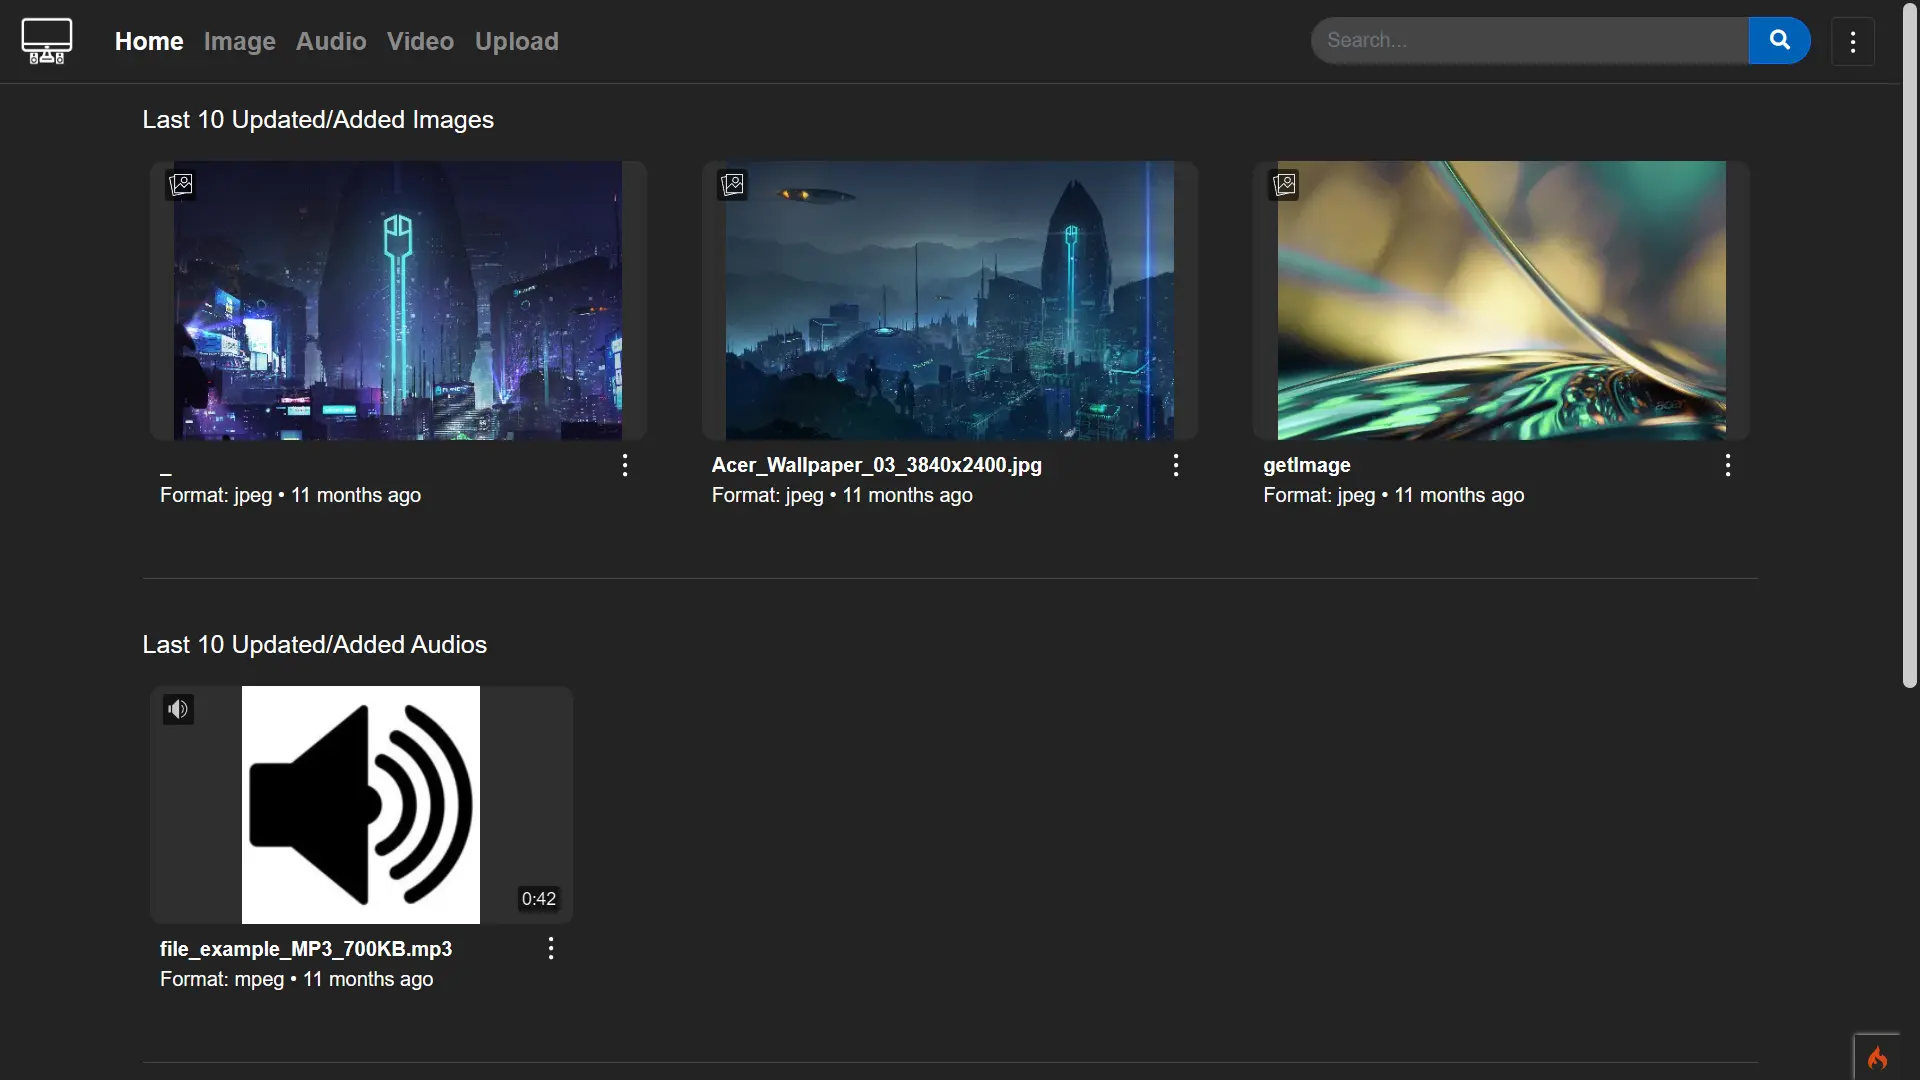
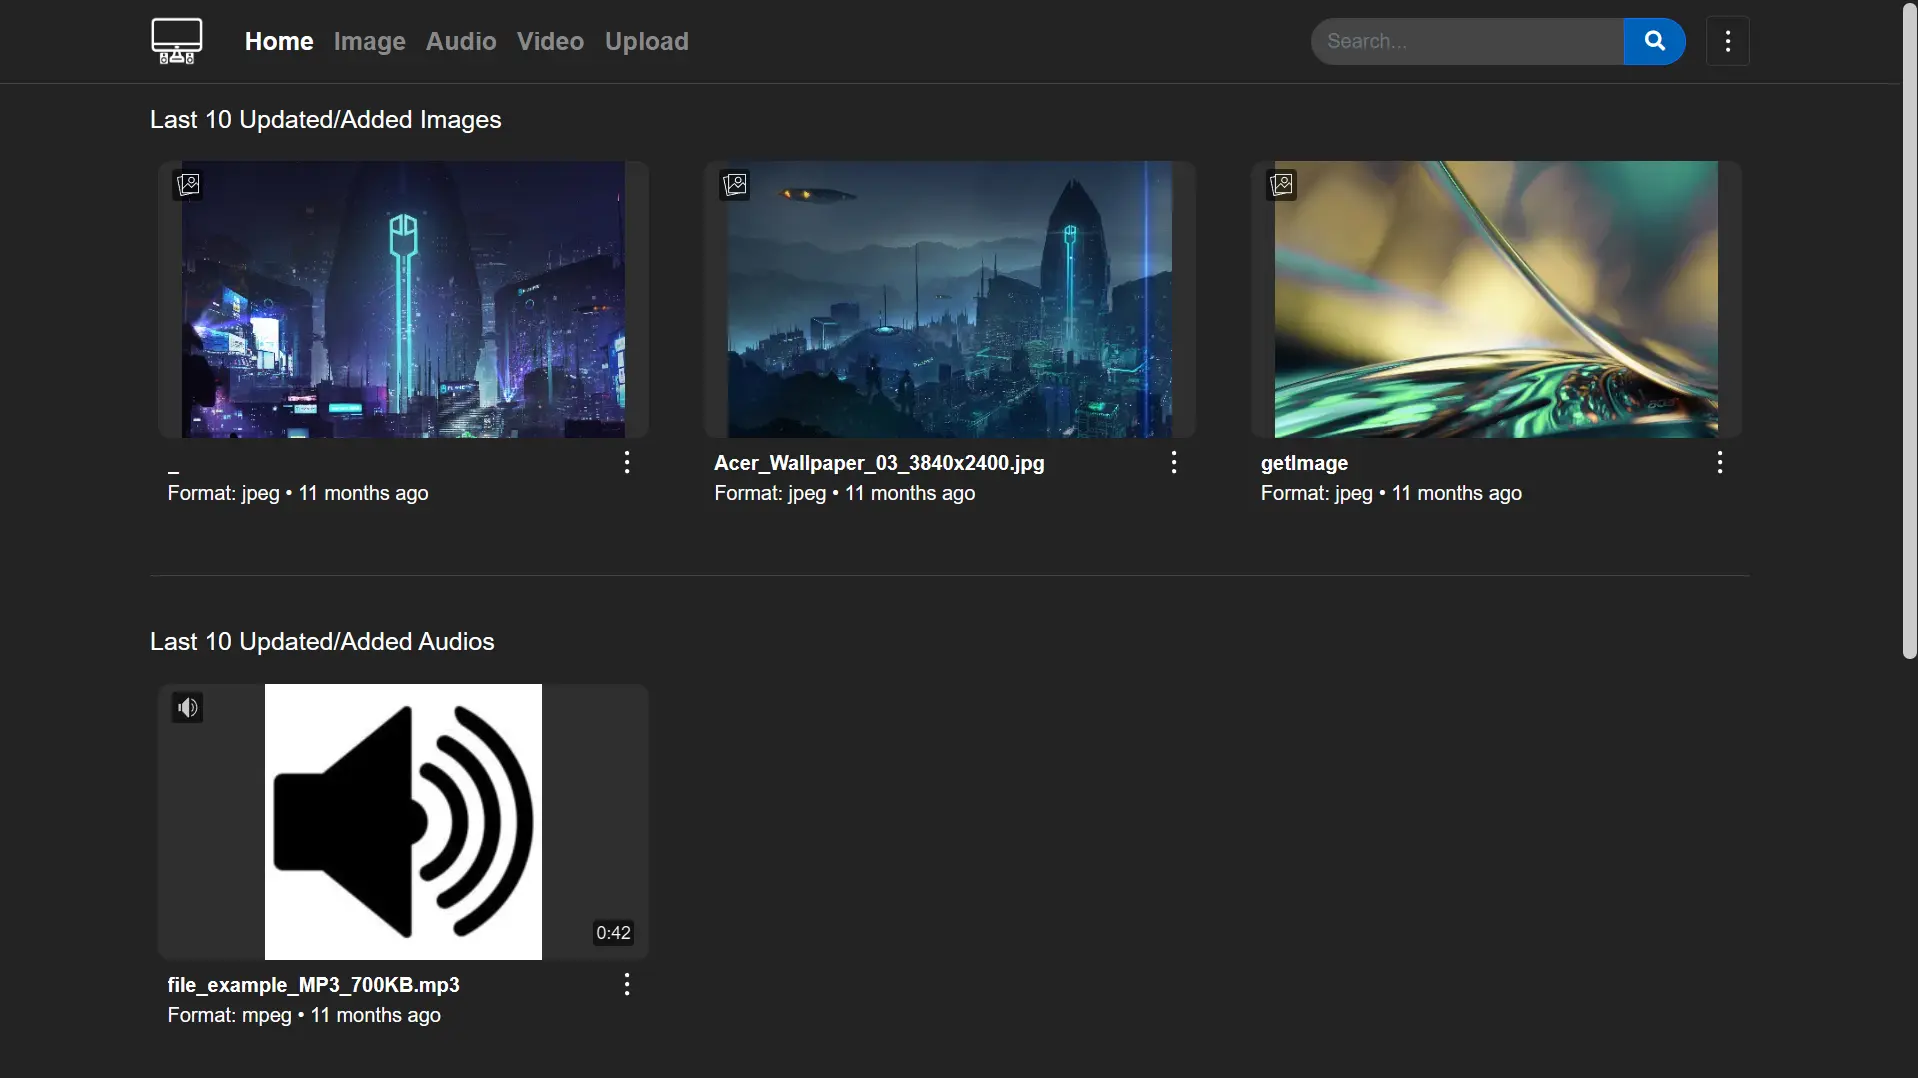
project updates

diff --git a/src/components/Projects/Projects.jsx b/src/components/Projects/Projects.jsx
@@ -1,171 +1,3 @@
-// import {React} from 'react';
-// import '../index.css';
-// import '../css/projects.css';
-// import Project from './Project';
-
-
-// function Projects() {
-
-//   const images = {
-//     'SnakeMenu':'images/SnakeGameMenu.png', 
-//     'SnakeGameplay':'images/SnakeGameplay.png', 
-//     'TypingTestTitle':'images/TypingTestTitle.png',
-//     'TypingTestResults':'images/TypingTestResults.png', 
-//     'MediaProjectHome':'images/mediaProject(home).webp',
-//     'MediaProjectUpload':'images/mediaProject(upload).webp',
-//     'MediaProjectViewImage':'images/mediaProject(viewImage).webp', 
-//     'MediaProjectViewVideo':'images/mediaProject(viewVideo).webp',
-//     'PongGameGameplay':'images/PongGame(Gameplay).webp',
-//     'PongGameSettings':'images/PongGame(Settings).webp', 
-//     'OverwrappedMenu':'images/OverwrappedMenu.webp',
-//     'OverwrappedGame':'images/OverwrappedGame.webp'
-//   }
-
-//   return (
-//     <div className="card section" id="projects">
-//       <div id="projects-content">
-//       <Project 
-//         title="Media Management System" 
-//         description="This project was originally a group project for
-//             my software engineering course but I completely refactored the project, added new features, and deployed it. 
-//             This project allows you to upload image, video, and audio files to the web for storage. This website 
-//             also allows you to view the files you have uploaded."
-//         technologies={['codeigniter', 'php', 'js', 'dropzonejs', 'html', 'css', 'bootstrap']}
-//         features={["You can register an account", "The files uploaded can be viewed in the site.", 
-//         "Allows users to upload image, video, and audio files to the site. These files are only visible the user that uploaded the file.",
-//         "Users can share files to other registered users.", "Users can download any file they uploaded.", 
-//         "There is a search feature allowing users to search for files by name.",
-//         "Users can rename files, add a description, and delete files.", 
-//         "Users can delete and share multiple files by right clicking them and selecting them."  
-//         ]}
-//         howToUse="You need to register an account which will ask for name, email, and password.
-//               Once you logged in, you can click on the upload link in the navbar. Here you can upload
-//               image, video, and audio files."
-//         imagePairs={[
-//                       {imageLeft: {id:"media-project-home", src:images.MediaProjectHome},
-//                       imageRight: {id:"media-project-upload", src:images.MediaProjectUpload}
-//                       },
-//                       {imageLeft: {id:"media-project-viewImage", src:images.MediaProjectViewImage},
-//                       imageRight: {id:"media-project-viewVideo", src:images.MediaProjectViewVideo}
-//                       }
-//                     ]  
-//         }
-//         url="https://xeg28.serv00.net/"
-//         />
-
-//         <Project 
-//           title="Overwrapped"
-//           description="I created this game along with two other group members for my 3D Game Development course. 
-//           This was a semester long project where we had to create a local co-op game in unity. Our game took inspiration
-//           from a game called Overcooked but it is Christmas themed."
-//           technologies={['unity', 'csharp']}
-//           features={["Supports two keyboard players and multiple controller players.",
-//                     "Players can sprint, jump, throw items, drop items, and work on items.", 
-//                     "Has a user interface that provides information about each player.", 
-//                     "In later levels, there's obstacles like falling snowballs and icicles."
-//           ]}
-//           howToUse="When loading the site, the description of the game will show the controls
-//           for keyboard and controller. The goal of the game is to create toys as fast as possible. There is
-//           a time limit for each toy and players need to work together to get them done in time. If three toys 
-//           are not finished in time, the level is failed."
-//           imagePairs={[{imageLeft: {id:"overwrapped-menu", src:images.OverwrappedMenu},
-//                         imageRight: {id:"overwrapped-game", src:images.OverwrappedGame}
-//           }]}   
-//           url="https://xeg28.itch.io/overwrapped"
-//         />
-
-//       <Project 
-//           title="Personal Website"
-//           description="I created this website to provide information about myself such as my interests, education,
-//            experience, and projects. I decided to create this site with the React Framework because I wanted to learn 
-//            how to use a popular frontend framework."
-//           technologies={['react', 'js', 'css']}
-//           features={["Includes a navbar that will scroll to certain sections of the website.", 
-//                       "Includes animations when scrolling to a section.", 
-//                       "Users can click on an images to enlarge.", 
-//                       "The website is responsive so it can be used on mobile."
-//           ]}
-//           howToUse="Users can scroll to sections or use the navbar which will automatically scroll to a section. 
-//           Users can click on project images to enlarge them."
-//           imagePairs={[]}   
-//           url="https://xeg28.github.io/PersonalWebsite"
-//         />
-
-
-//         <Project 
-//           title="Pong Game"
-//           description="I recreated the Pong Game using JavaScript, HTML, and CSS. I decided to 
-//               create this project to help me gain experience with frontend development."
-//           technologies={['html', 'js', 'css']}
-//           features={["Users can play against another player or an AI.",
-//                     "There is an options menu where users can change the speed of the game, the size of the paddle, and the difficulty of the AI.",
-//                     "Users can choose between dark and light theme.",
-//                     "Users can pause the game.",
-//                     "All of your options are saved in your browser."
-//           ]}
-//           howToUse="When you load up the game there is a controls menu showing how to move the paddles. 
-//           When you click to start the game, you have to predict where the ball is going and move the paddle
-//           to block the ball. When the ball hits the paddle, its direction and speed is random to make it hard to predict."
-//           imagePairs={[{imageLeft: {id:"pong-game-gameplay", src:images.PongGameGameplay},
-//                         imageRight: {id:"pong-game-settings", src:images.PongGameSettings}
-//           }]}   
-//           url="https://xeg28.github.io/PongGame"
-//         />
-
-//         <Project 
-//           title="Snake Game"
-//           description="I recreated the Snake game using JavaScript, HTML, and CSS. I decided to 
-//               create this project to help me gain experience with frontend development."
-//           technologies={['html', 'js', 'css']}
-//           features={["The game includes screen wrapping which allows the snake to pass through one edge of the screen and reappear on the opposite edge.",
-//                     "The game can be paused.",
-//                     "The game can be sped up through the menu. The game speeds include slow, fast, and full speed.",
-//                     "Your highest score is kept by your browser."
-//           ]}
-//           howToUse="You will control the snake and the goal is to catch the red square. Everytime you catch a square, 
-//                 your score will go up by one point. If you crash into yourself, the game is over."
-//           imagePairs={[{imageLeft: {id:"snake-menu", src:images.SnakeMenu},
-//                         imageRight: {id:"snake-Gameplay", src:images.SnakeGameplay}
-//             }]}
-//           url="https://xeg28.github.io/Snake-Game"
-//         />
-
-//         <Project 
-//         title="Typing Speed Test"
-//         description="I created a typing speed test using JavaFX and CSS. I created this application
-//             because I liked testing my typing speed and I wanted to gain experience with 
-//             Java and GUI development."
-//         technologies={['java', 'javafx']}
-//         features={["During a test, the user can see their WPM update in a label.",
-//                   "If the user types the text prompt correctly, it is highlighted in green.",
-//                   "If the user makes a mistake, the mistake is highlighted in red.",
-//                   "Users can use custom texts that are not saved locally.",
-//                   "Users can create a quote which are saved locally.",
-//                   "The program allows you to create users which tracks the user's progress.",
-//                   "The program saves the user's average WPM and highest WPM.",
-//                   "The program saves the user's top five tests for every quote.",
-//                   "This program also has a leaderboard for every quote which shows the fastest users for a quote."
-//         ]}
-//         howToUse="Click on the quote text field to focus and begin typing to start a test. You can also
-//               focus textfields and buttons by pressing tab. The program provides shortcuts that allows
-//               you to restart a test or give you a random quote from your list of quotes. These 
-//               shortcuts only work when the quote text field is in focus."
-//         imagePairs={[{imageLeft: {id:"typing-main", src:images.TypingTestTitle},
-//                       imageRight: {id:"typing-results", src:images.TypingTestResults}
-//                     }]}
-//         links={<span className="monospace fs-400">
-//               You will need to install <a className="monospace fs-400" href="https://www.oracle.com/java/technologies/javase" target="_blank">Java 17</a>.
-//               You can check out the project on <a className="monospace fs-400" href="https://github.com/xeg28/Typingtest" target="_blank">GitHub</a>.
-//             </span>}
-//         last='true'
-//         />
-
-//       </div>
-//     </div>
-//   );
-// }
-
-// export default Projects;
 
 import "../../css/projects.css";
 import Project from "./Project"
@@ -180,10 +12,12 @@ function Projects() {
           title="Media Management System"
           description="A site built using CodeIgniter (PHP) that
           allows users to upload media files for storage."
-          detail="This project was originally a group project for my software engineering course 
+          detail={`This project was originally a group project for my software engineering course 
           but I completely refactored the project, added new features, and deployed it. This project
           allows you to upload image, video, and audio files to the web for storage. This website also 
-          allows you to view the files you have uploaded."
+          allows you to view the files you have uploaded. To try it out, use the example account: 
+          <br>Email: 123fakemail@gmail.com 
+          <br>Password: 123123`}
           features={["You can register an account", "The files uploaded can be viewed in the site.", 
                     "Allows users to upload image, video, and audio files to the site. These files are only visible the user that uploaded the file.",
                     "Users can share files to other registered users.", "Users can download any file they uploaded.", 
@@ -301,7 +135,7 @@ function Projects() {
           features={["Users can register", "Emails are validated", "JWT for user authentication", 
           "Refresh tokens for session management",  "Users can reset their password"
           ]}
-          technologies={["aspnet", "csharp", "react", "ts", "sql"]}
+          technologies={["aspnet", "csharp", "react", "ts", "pgsql"]}
           github="https://github.com/xeg28/TwitterClone/"
         />
           <div></div>

diff --git a/src/components/Projects/Project.jsx b/src/components/Projects/Project.jsx
@@ -22,7 +22,8 @@ const technologies = {
   'mysql': { name: "MySQL", url: 'https://dev.mysql.com/doc/' },
   'sql': { name: "SQL", url: 'https://learn.microsoft.com/en-us/sql/?view=sql-server-ver17' },
   'ts': { name: "TypeScript", url: "https://www.typescriptlang.org/docs/" },
-  "aspnet": { name: "ASP.NET", url: "https://learn.microsoft.com/en-us/aspnet/core/?view=aspnetcore-9.0" }
+  "aspnet": { name: "ASP.NET", url: "https://learn.microsoft.com/en-us/aspnet/core/?view=aspnetcore-9.0" },
+  "pgsql": {name:"PostgreSQL", url: "https://www.postgresql.org/docs/"}
 };
 
 function Project(props) {
@@ -139,7 +140,7 @@ function Project(props) {
                 <img src="svg/close.svg" alt="" />
               </button>
               <div className='scroll custom-scroll'>
-                <div className="mb-1">{props.detail}</div>
+                <div className="mb-1" dangerouslySetInnerHTML={{ __html: props.detail }}/>
                 <div className="mb-1">
                   <div className="title-color fs-400 fw-600">Features{props.inProgress && (<span>&nbsp;Completed</span>)} </div>
                   <ul className="project-features">

diff --git a/src/components/Contact.jsx b/src/components/Contact.jsx
@@ -43,7 +43,9 @@ function Contact() {
           <div>
             <button type="submit">
               <span>Send Message</span> 
-              <img src="svg/send.svg" />
+              <div className="btn-image-container">
+                <img src="svg/send.svg" />
+              </div>
             </button>
           </div>
         </div>

diff --git a/src/css/contact.css b/src/css/contact.css
@@ -59,11 +59,13 @@ textarea {
   display: flex;
   align-items: center;
   justify-content: center;
+  --btn-image-size: calc(var(--fs-400) + 5px);
 }
 
 .form-container button img {
-  height: calc(var(--fs-400) + 5px);
+  height: 100%;
   font-weight: 400;
   margin-left: .25em;
   filter: var(--inverted-img-filter);
 }
+

diff --git a/src/index.css b/src/index.css
@@ -156,6 +156,12 @@
   }
 }
 
+.btn-image-container{
+  height: var(--btn-image-size);
+  width: var(--btn-image-size);
+  
+}
+
 .image-container {
     display:flex;
     flex-direction: column;
